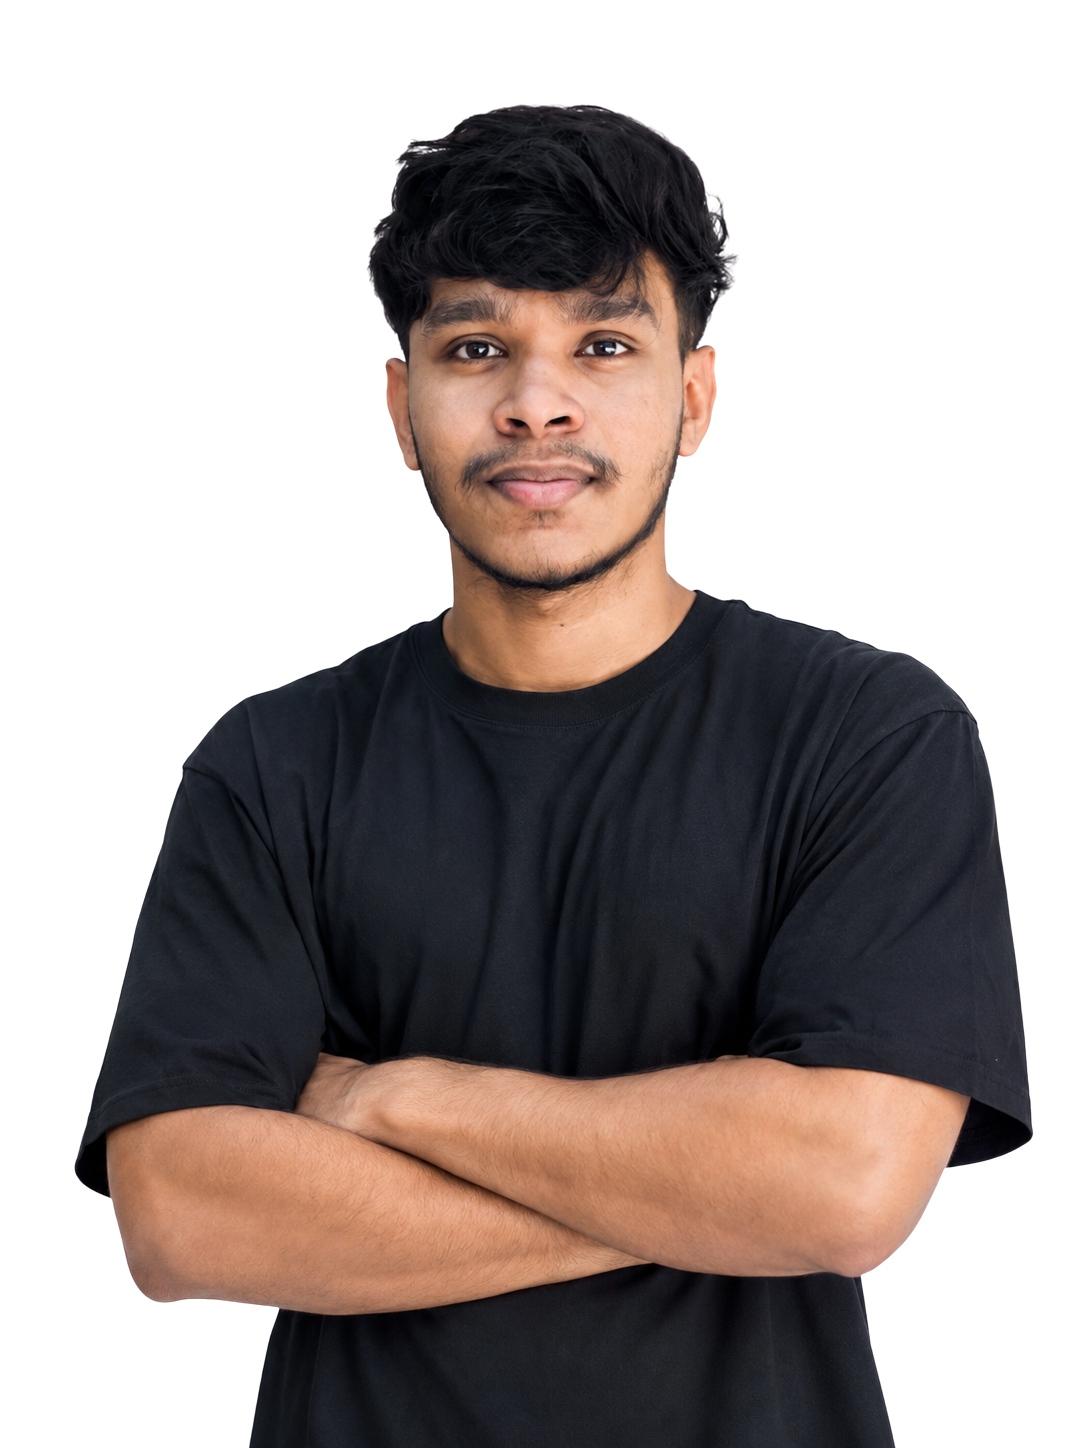
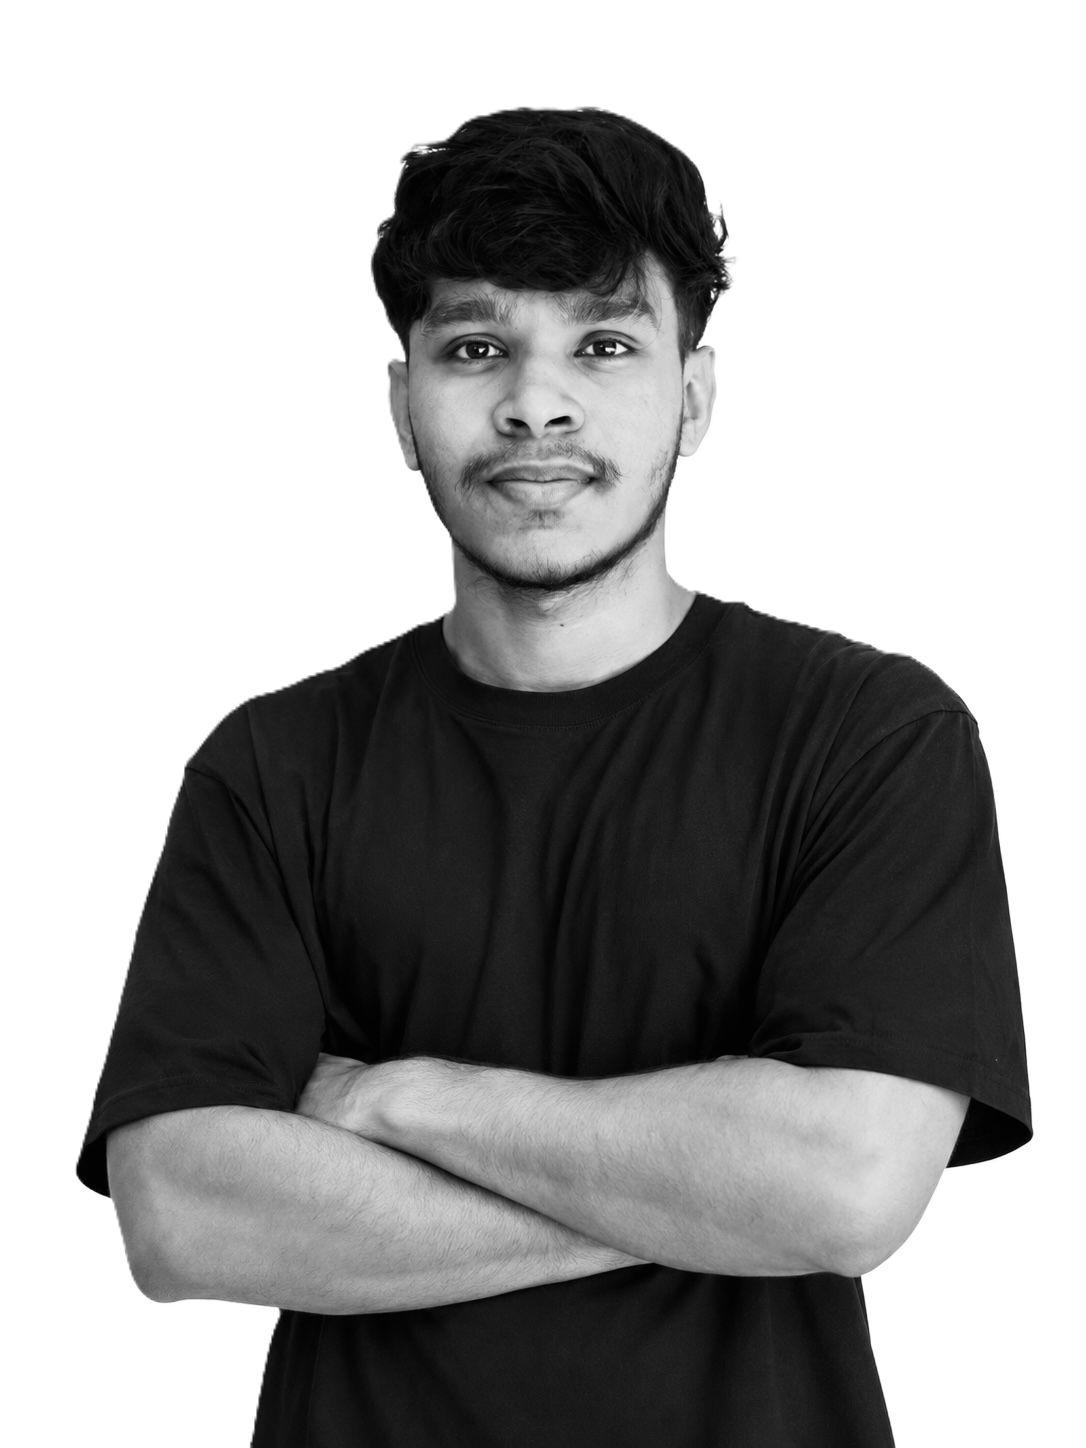
feat: add responsive hero section with glass-morphism 3D cube animation

diff --git a/components/GlassCube.tsx b/components/GlassCube.tsx
@@ -4,16 +4,17 @@ import { Canvas, useFrame } from '@react-three/fiber';
 import { Float } from '@react-three/drei';
 import * as THREE from 'three';
 
-import { Text, MeshTransmissionMaterial, Environment } from '@react-three/drei';
+import { Text, MeshTransmissionMaterial, Environment, RoundedBox } from '@react-three/drei';
 
 function NeonEdges({ size = 2.2 }: { size?: number }) {
   const ref = useRef<THREE.Group>(null);
 
-  useFrame((state) => {
+  useFrame((state, delta) => {
     if (ref.current) {
-      ref.current.rotation.x = Math.sin(state.clock.elapsedTime * 0.3) * 0.3 + 0.5;
+      const t = performance.now() / 1000;
+      ref.current.rotation.x = Math.sin(t * 0.3) * 0.3 + 0.5;
       ref.current.rotation.y += 0.006;
-      ref.current.rotation.z = Math.cos(state.clock.elapsedTime * 0.2) * 0.15;
+      ref.current.rotation.z = Math.cos(t * 0.2) * 0.15;
     }
   });
 
@@ -39,39 +40,34 @@ function NeonEdges({ size = 2.2 }: { size?: number }) {
   ], []);
 
   return (
-    <Float speed={1.5} rotationIntensity={0.15} floatIntensity={0.6}>
+    <Float speed={2} rotationIntensity={0.2} floatIntensity={0.8}>
       <group ref={ref}>
-        {/* Outer neon edges */}
+        {/* Outer neon edges (optional, keeping faint for structure) */}
         <lineSegments geometry={edgesGeo}>
-          <lineBasicMaterial color="#aaff00" transparent opacity={0.85} />
+          <lineBasicMaterial color="#aaff00" transparent opacity={0.3} />
         </lineSegments>
 
-        {/* Inner ghost edges */}
-        <lineSegments geometry={innerEdgesGeo}>
-          <lineBasicMaterial color="#aaff00" transparent opacity={0.2} />
-        </lineSegments>
-
-        {/* Glass faces — Realistic Transmission */}
-        <mesh>
-          <boxGeometry args={[size, size, size]} />
+        {/* Liquid Glass faces */}
+        <RoundedBox args={[size, size, size]} radius={0.3} smoothness={8}>
           <MeshTransmissionMaterial
             backside
-            samples={4}
-            thickness={0.5}
-            chromaticAberration={0.05}
-            anisotropy={0.3}
-            distortion={0.1}
-            distortionScale={0.3}
-            temporalDistortion={0.1}
+            samples={6}
+            thickness={2}
+            chromaticAberration={0.15}
+            anisotropy={0.2}
+            distortion={0.5}
+            distortionScale={0.5}
+            temporalDistortion={0.2}
             iridescence={1}
-            iridescenceIOR={1.2}
-            color="#ccffcc"
-            transmission={0.95}
-            roughness={0.05}
+            iridescenceIOR={1.3}
+            color="#e6ffe6"
+            transmission={1}
+            roughness={0}
             ior={1.5}
             transparent
+            envMapIntensity={2}
           />
-        </mesh>
+        </RoundedBox>
 
         {/* Neon green spheres inside */}
         {spheres.map((s, i) => (

diff --git a/components/HeroSection.tsx b/components/HeroSection.tsx
@@ -4,6 +4,9 @@ import Image from 'next/image';
 import { FiArrowRight, FiInstagram, FiLinkedin } from 'react-icons/fi';
 import { SiBehance } from 'react-icons/si';
 import styles from './HeroSection.module.css';
+import dynamic from 'next/dynamic';
+
+const GlassCube = dynamic(() => import('./GlassCube'), { ssr: false });
 
 const floatVariant: Variants = {
   animate: {
@@ -75,7 +78,9 @@ export default function HeroSection() {
           </motion.div>
 
           <div className={styles.titleWrap}>
-            <motion.h1
+            <motion.div
+              role="heading"
+              aria-level={1}
               className={styles.title}
               initial={{ opacity: 0, y: 60 }}
               animate={{ opacity: 1, y: 0 }}
@@ -90,7 +95,7 @@ export default function HeroSection() {
               </div>
               <div>&amp; VISUAL</div>
               <div>ARTIST</div>
-            </motion.h1>
+            </motion.div>
           </div>
 
           <motion.p

diff --git a/components/HeroSection.module.css b/components/HeroSection.module.css
@@ -215,18 +215,19 @@
 
 /* INLINE CUBE AND DESIGNER ROW */
 .designerRow {
-  display: flex;
+  position: relative;
+  display: inline-flex;
   align-items: center;
-  gap: 12px;
 }
 
 .inlineCubeContainer {
-  position: relative;
-  width: clamp(50px, 6vw, 100px);
-  height: clamp(50px, 6vw, 100px);
-  display: inline-block;
-  flex-shrink: 0;
-  margin-top: -10px; /* Slight optical adjustment */
+  position: absolute;
+  left: clamp(-100px, -10vw, -140px);
+  top: 50%;
+  transform: translateY(-50%);
+  width: clamp(80px, 8vw, 130px);
+  height: clamp(80px, 8vw, 130px);
+  z-index: 20;
 }
 
 /* RIGHT COLUMN */
